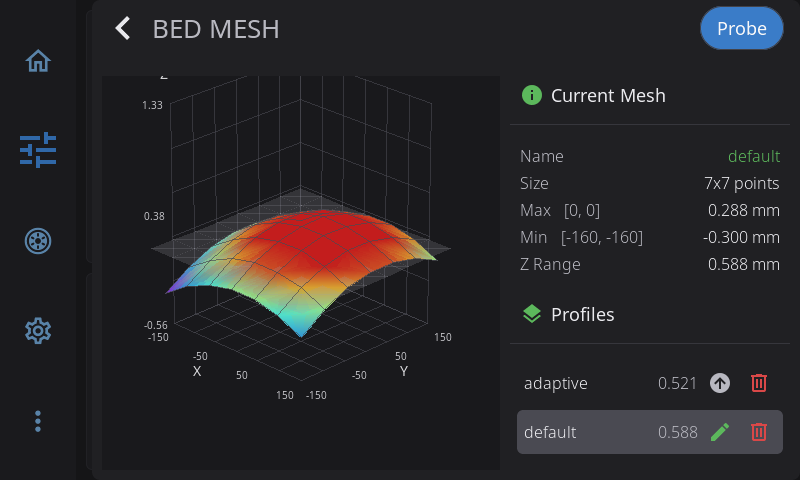
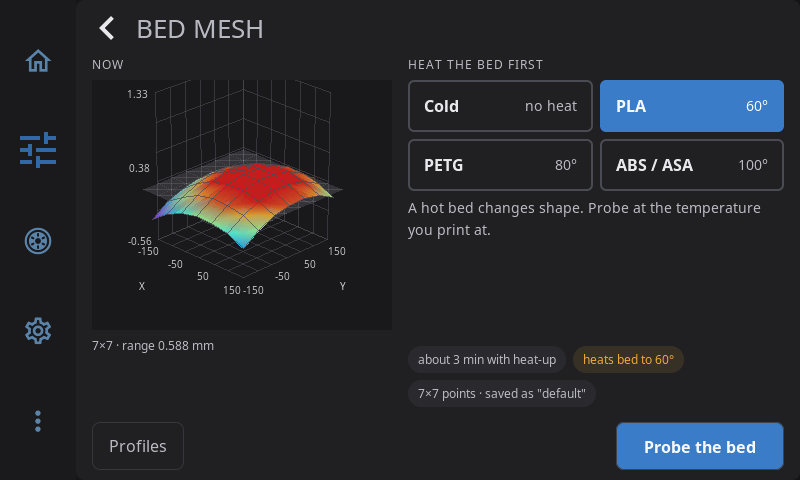
docs(calibration): screenshots and guide for the redesigned calibration screens
Adds manifest entries and shots for the Calibration screen, the guided run's
Pick, Before you start, Z offset step, Z offset not set, Running and Results
pages, Belt compare, PA tuning and the wizard's Calibrate your printer page;
recaptures the other calibration shots and repairs the input shaper recipe.
The guide covers the all-or-nothing save, the Z offset step starting at once,
Warm the bed first, Back asking, save labels and offline Done.

diff --git a/docs/user/guide/calibration.md b/docs/user/guide/calibration.md
@@ -12,13 +12,15 @@ Every calibration here that moves the toolhead (Bed Mesh, Screws Tilt, Z Offset,
 
 Open **Advanced > Calibration**. The screen has one tile for each calibration your printer can run, in the order they are best run in. A calibration your printer cannot run has no tile: no **Input shaper** without an accelerometer, no **Bed mesh** without a probe or bed mesh setup, no **Tool offsets** on a single-tool printer.
 
+![The Calibration screen: the Guided calibration banner with its Start button, then one tile per calibration with where it stands](../../images/user/calibration-hub.png)
+
 Tap a tile to open that calibration's own screen, described in the sections below.
 
 Each tile also says where that calibration stands:
 
 | The tile says | What it means |
 |---------------|---------------|
-| **Done** and a date, with a value | A guided calibration measured and saved this, on that date |
+| **Done** and a date, with a short value | A guided calibration measured and saved this, on that date. The value is a short summary, such as the Z offset or the bed mesh range. The Input shaper tile shows only the date, because its result has one value per axis |
 | **In config** with a value | Your printer's Klipper configuration already holds a tuned value, from before HelixScreen or from another tool. The Input shaper tile shows its two axes without the **In config** label |
 | **Never run · required** | Nothing found, and this printer's profile marks the calibration as required |
 | **Never run** | Nothing found, and the calibration is recommended for this printer |
@@ -49,35 +51,55 @@ The Z offset runs first because it is the one that may need you at the printer. 
 Start a guided calibration from either place:
 
 - The **Guided calibration** button at the top of the Calibration screen. It says how many of its calibrations have never run and how long the whole thing takes.
-- **Calibrate now** on the last page of the setup wizard. Setup finishes first, then the guided calibration opens.
+- **Calibrate now** on the setup wizard's last page, **Calibrate your printer**. Setup finishes first, then the guided calibration opens. **Skip for now** finishes setup without calibrating.
+
+![The setup wizard's Calibrate your printer page: the calibrations this printer needs, how long they take, and Calibrate now](../../images/user/wizard-calibration.png)
 
 ### Picking the Calibrations
 
 The first page lists the calibrations the guided run offers on your printer, each with its time and what it involves: whether it needs you, uses the paper test, heats or is loud.
 
+![Picking the calibrations: Z offset with Warm the bed first, Heaters, Bed mesh and Input shaper, all ticked, with the total time at the bottom](../../images/user/calibration-guided-pick.png)
+
 - Recommended calibrations start ticked. Optional ones start unticked.
 - A calibration your printer's profile marks as required stays ticked and cannot be unticked.
 - The total time, and how much of it needs you, update as you tick and untick.
+- The **Z offset** card has **Warm the bed first**. Tap it to heat the bed before the printer probes, so the offset is measured with the bed expanded the way it is when you print. Tap it again to turn it off.
 
-Tap **Next** when the list is right.
+Tap **Start** when the list is right, or **Skip for now** to close the guided calibration without running anything.
 
 ### Before You Start
 
-The next page lists what the picked calibrations need, such as a clear bed, the build plate in place, or a sheet of paper for the paper test. Each line says which calibrations need it. Tick each line once it is done. A line HelixScreen can check by itself, like the accelerometer, is already ticked.
+The next page lists what the picked calibrations need, such as a clear bed, the build plate in place, or a sheet of paper for the paper test. Each line says which calibrations need it. Tick each line once it is done. A line HelixScreen can check by itself, like the accelerometer, is already ticked. The right side says which part of the run needs you and when you can walk away.
+
+![Before you start: three lines still to tick and the accelerometer already detected, with what happens next on the right](../../images/user/calibration-guided-prereqs.png)
 
 The button that starts the run (**Everything's ready**) becomes available when every line is ticked. Going back to the first page and returning clears the ticks, so check them again.
 
 ### While It Runs
 
-The running page shows the current calibration, what it is doing, a progress bar, and roughly how long the whole run has left. It also says what to watch out for: do not touch the nozzle or the bed while the heaters calibrate, keep hands clear while the bed mesh probes, and expect noise during input shaping.
+The running page shows the current calibration, what it is doing, a progress bar, and roughly how long the whole run has left. The list on the left shows each calibration's result as it finishes. It also says what to watch out for: do not touch the nozzle or the bed while the heaters calibrate, keep hands clear while the bed mesh probes, and expect noise during input shaping.
+
+![A guided run in progress: the list of calibrations on the left with their results so far, and the current one's live view on the right](../../images/user/calibration-guided-running.png)
 
 You can leave this screen while the run continues. Open **Guided calibration** again to come back to where it is.
 
 A calibration that fails does not stop the run: the next one starts, and the results say what went wrong.
 
-**The Z offset step.** The run opens the Z offset screen, the same one as the **Z offset** tile, without asking whether the bed is clear (you already ticked that). Run the calibration as usual. **Accept** keeps the result for the end of the run instead of saving it, and the screen says so. Tap **Continue** to go back to the run.
+**The Z offset step.** The run opens the Z offset screen and the printer starts homing and probing straight away: there is no intro page, and no question about whether the bed is clear (you already ticked that). With **Warm the bed first** on, the bed heats first. When the nozzle is in place, do the paper test:
 
-If you leave the Z offset screen without accepting a result, HelixScreen asks **Z offset not set**:
+1. Slide the paper back and forth under the nozzle.
+2. Tap **Lower nozzle** until the paper just drags lightly. Big steps first, then 0.01 mm. Never force the nozzle into the bed.
+3. Tap **Paper drags: done**. The result is kept for the end of the run instead of being saved now, and the screen says so.
+4. Tap **Continue** to go back to the run.
+
+![The Z offset step in a guided run: step 1 of 4, the nozzle position, Raise and Lower nozzle, the step sizes, and Paper drags: done](../../images/user/calibration-guided-zoffset.png)
+
+**Skip this step** moves on to the next calibration without a Z offset.
+
+If you tap **Back**, including in the middle of the paper test, the paper test is cancelled and HelixScreen asks **Z offset not set**:
+
+![Z offset not set: Stop calibration or Continue](../../images/user/calibration-guided-z-not-set.png)
 
 - **Continue** skips the Z offset and goes on with the other calibrations.
 - **Stop calibration** ends the run. Closing the question any other way also stops the run, because the next calibrations heat and move the printer and should only start when you chose them.
@@ -90,7 +112,7 @@ On printers whose firmware keeps the Z offset itself (FlashForge with ZMOD, for 
 
 ### Stopping
 
-Tap **Stop** to end the run. HelixScreen asks first.
+Tap **Stop calibration** to end the run. HelixScreen asks first.
 
 How much stopping undoes depends on what the printer is doing at that moment:
 
@@ -99,18 +121,25 @@ How much stopping undoes depends on what the printer is doing at that moment:
 
 If the printer shuts down or restarts during a run for any other reason, the finished results are lost the same way, and each one is marked **Dropped when the printer restarted**.
 
-### Results: Save All or Discard All
+### Results: Save or Discard All
 
 When every calibration has ended, or after a stop, tap **See results**. Each calibration shows the value from before the run beside what the run measured, or why it failed, was skipped or was not run.
 
-- **Save all** writes every result to your printer's configuration with one save. A calibration that failed partway, for example after tuning the nozzle but not the bed, still saves the part it finished, and its line says what will be saved. The Calibration screen's tiles then show **Done** with today's date.
-- **Discard all** throws every result away and leaves your printer's configuration as it was. If a firmware-stored Z offset changed, it is set back first, and its line says what it was restored to.
+![Results: each calibration's value before the run and after it, with Discard all and Save and restart Klipper at the bottom](../../images/user/calibration-guided-results.png)
 
-If the save fails, the reason is shown and you can try **Save all** again or choose **Discard all**.
+A run saves all of its results or none of them, so there is nothing to tick or untick line by line. The line at the bottom says how many results will be saved and whether Klipper restarts.
+
+- **Save and restart Klipper** writes every result to your printer's configuration with one save. On Kalico the button reads **Save** when the save needs no restart (see below). A calibration that failed partway, for example after tuning the nozzle but not the bed, still saves the part it finished, and its line says what will be saved. The Calibration screen's tiles then show **Done** with today's date.
+- **Discard all** throws every result away and leaves your printer's configuration as it was. If a firmware-stored Z offset changed, it is set back first, and its line says what it was restored to. **Discard all** also appears when that Z offset is the only thing to undo, even though nothing else needs saving.
+- When there is nothing to save, the button reads **Done** and just closes the run.
+
+If the save fails, the reason is shown and you can try saving again or choose **Discard all**.
+
+**If the printer is unreachable** (disconnected, or Klipper not ready), **See results** and **Done** still work, so you can read the results and close the run. Saving waits until the printer is back.
 
 ### What Restarts Klipper
 
-**On Klipper**, saving the configuration always restarts Klipper, so **Save all** restarts it once at the end. This is normal and takes a few seconds to a minute. Your new values take effect when it is back.
+**On Klipper**, saving the configuration always restarts Klipper, so saving the results restarts it once at the end. This is normal and takes a few seconds to a minute. Your new values take effect when it is back.
 
 **On Kalico**, a save can skip the restart when everything it writes is already in effect. The guided run's heater PID values, bed mesh and input shaper settings all take effect the moment they are measured, so a run of just those saves without a restart. A run that includes a probe Z offset, or MPC heater values, still restarts Klipper, because those only take effect after a restart. The same rule applies to the Save button on the Z offset screen: its confirmation tells you whether Klipper will restart.
 
@@ -312,11 +341,7 @@ A tool that has never been calibrated shows `--` on each axis instead of a numbe
 
 ### Running a Calibration
 
-1. Navigate to **Advanced > Calibration > Tool offsets**.
-
-   ![Tool Offsets row in the Advanced panel](../../images/user/advanced-tool-offsets-row.png)
-
-   — or tap **Tool Offsets** on the Controls panel:
+1. Navigate to **Advanced > Calibration** and tap the **Tool offsets** tile (it appears only on a printer with more than one tool), or tap **Tool Offsets** on the Controls panel:
 
    ![Tool Offsets button on the Controls panel](../../images/user/controls-tool-offsets.png)
 
@@ -427,7 +452,7 @@ For CoreXY printers: compares the tension of the two belt paths by driving each 
 
 ### Requirements
 
-The **Belt compare** tile appears under **Advanced > Calibration** on a CoreXY printer whose Klipper config has an accelerometer. **Start Check** stays disabled until all of these hold:
+The **Belt compare** tile appears under **Advanced > Calibration** on a CoreXY printer whose Klipper config has an accelerometer. **Compare belts** stays disabled until all of these hold:
 
 - A **CoreXY** printer. The check compares the two diagonals only a CoreXY has, so it is unavailable on other kinematics
 - An **accelerometer** configured in Klipper, and exactly one. When more than one accelerometer reports during the sweep, the check stops with a message rather than guess which one to compare
@@ -438,8 +463,11 @@ The **Belt compare** tile appears under **Advanced > Calibration** on a CoreXY p
 ### Running a Check
 
 1. Navigate to **Advanced > Calibration > Belt compare**
-2. The panel shows what it found: your kinematics, your accelerometer, and the frequency range the sweep will cover. If a requirement is not met, the reason appears above the Start button
-3. Tap **Start Check**. The printer homes first if it needs to, runs three quick laps to settle the belts, then sweeps each belt path in turn: the toolhead moves back and forth along one diagonal while the accelerometer listens, then the other. Two full sweeps take about 5 minutes at Klipper's default settings - keep clear of the printer while it moves. Each path's curve draws live on the chart while it sweeps, as on the [Input Shaper live chart](#the-live-chart), and Klipper's analysis replaces it when the sweep ends
+2. The panel shows what it found: your kinematics, your accelerometer, and the frequency range the sweep will cover. If a requirement is not met, the reason appears above the **Compare belts** button
+
+   ![Belt Tension before a check: the two belt paths, what the check does, the kinematics and accelerometer, and Compare belts](../../images/user/calibration-belt-compare.png)
+
+3. Tap **Compare belts**. The printer homes first if it needs to, runs three quick laps to settle the belts, then sweeps each belt path in turn: the toolhead moves back and forth along one diagonal while the accelerometer listens, then the other. Two full sweeps take about 5 minutes at Klipper's default settings - keep clear of the printer while it moves. Each path's curve draws live on the chart while it sweeps, as on the [Input Shaper live chart](#the-live-chart), and Klipper's analysis replaces it when the sweep ends
 4. Both curves appear on one chart, each path in its own color
 
 The sweeps stay inside the frequency range set in your printer's `[resonance_tester]` section; nothing goes past its `max_freq`. On a printer with less than 512 MB of memory or a single-core processor, the panel shows the results without a chart.
@@ -563,6 +591,8 @@ Leaving the screen while it is still heating stops the run. Once measuring has s
 Works on any Klipper printer. HelixScreen prints a small test tower, raises pressure advance as the tower grows, and lets you take over while you watch the corners. You pick the height that looked best, and that value is applied.
 
 1. Open **Advanced > Calibration > Pressure advance tuning**.
+
+   ![Pressure Advance Tuning: material presets, Direct drive or Bowden, the Start K and End K range, and Print Test Tower](../../images/user/calibration-pa-tuning.png)
 2. On a printer with more than one extruder (a tool changer or IDEX), pick which one to tune; filament lanes feeding one nozzle count as one. Tap the material preset that matches what's loaded; it sets the nozzle and bed temperature.
 3. Choose **Direct drive** or **Bowden**. That sets a sensible range (0 to 0.1 for direct drive, 0 to 1.0 for Bowden); adjust **Start K** and **End K** with **-** and **+** if you want a different range.
 4. Clear the plate, tap **Print Test Tower** and confirm. HelixScreen uploads a hollow tower 40 mm wide and about 31 mm tall (roughly 11 minutes plus heating) and starts it. It begins with your printer's own start macro (PRINT_START or similar, with the bed and nozzle temperatures), so homing, leveling and purging happen the way they do for a sliced file, and ends with your end macro. A printer without a start macro just homes and heats.

diff --git a/docs/devel/CALIBRATION.md b/docs/devel/CALIBRATION.md
@@ -184,7 +184,10 @@ TileStatus tile_status(const calibration::StepInfo& step, const calibration::His
 ```
 
 The precedence is the history's last result, then the value the Klipper config holds, then the
-tier. `TileTone` values (`Idle`, `Due`, `Done`) are the ones `calibration_hub_tile.xml` maps to
+tier. A Done line carries the history's summary only where `tile_shows_reading()` says the step's
+result is one short reading (Z offset, heaters, bed mesh, pressure advance, the cutter position);
+a result per axis, belt, screw, tool or band, input shaping among them, reads "Done Nov 21" alone
+and leaves the detail to the step's own screen. `TileTone` values (`Idle`, `Due`, `Done`) are the ones `calibration_hub_tile.xml` maps to
 colors.
 
 **The Guided calibration banner** sits above the tiles. It shows when the run would have at least
@@ -317,8 +320,14 @@ run is on. Every page binds to subjects the overlay publishes; the subject names
    one while the step reports `percent = -1`), a safety line per step ("Do not touch the nozzle or
    the bed."), live temperatures during the heater step, and "Step 2 of 4 · about 15 min left".
 4. **Results.** Per step, the value before the run (its history summary, else its In-config
-   value, captured when the run started) beside what the run measured; then Save all and Discard
-   all.
+   value, captured when the run started) beside what the run measured. There is no per-step keep
+   column: a run saves everything `saves()` accepts or nothing. The primary button is
+   `results_primary_label()`: **Save and restart Klipper**, **Save** when the save is known not to
+   restart (Kalico), or **Done** when nothing is saved. Only a save needs the printer
+   (`primary_needs_printer="cal_run_offers_save eq 1"`), so **See results** on the Running page and
+   **Done** stay live while the printer is unreachable. **Discard all** shows while
+   `CalibrationRun::can_discard()` holds: something to save, or a finished step with
+   `restores_on_discard()` (a firmware-stored Z offset) even when nothing else is staged.
 
 **Setup's last page.** The setup wizard ends on a Calibration page (`WizardCalibrationStep`)
 that lists the steps a run would tick and how long they take. **Calibrate now** finishes setup

diff --git a/docs/devel/GALLERY.md b/docs/devel/GALLERY.md
@@ -380,6 +380,44 @@ Every app screenshot the docs show, grouped by area. Generated by `scripts/gen_g
 
 <img src="../images/user/about-version-row.png" alt="About version row" width="400"/>
 
+## Calibration
+
+### Calibration belt compare
+
+<img src="../images/user/calibration-belt-compare.png" alt="Calibration belt compare" width="400"/>
+
+### Calibration guided pick
+
+<img src="../images/user/calibration-guided-pick.png" alt="Calibration guided pick" width="400"/>
+
+### Calibration guided prereqs
+
+<img src="../images/user/calibration-guided-prereqs.png" alt="Calibration guided prereqs" width="400"/>
+
+### Calibration guided results
+
+<img src="../images/user/calibration-guided-results.png" alt="Calibration guided results" width="400"/>
+
+### Calibration guided running
+
+<img src="../images/user/calibration-guided-running.png" alt="Calibration guided running" width="400"/>
+
+### Calibration guided z not set
+
+<img src="../images/user/calibration-guided-z-not-set.png" alt="Calibration guided z not set" width="400"/>
+
+### Calibration guided zoffset
+
+<img src="../images/user/calibration-guided-zoffset.png" alt="Calibration guided zoffset" width="400"/>
+
+### Calibration hub
+
+<img src="../images/user/calibration-hub.png" alt="Calibration hub" width="400"/>
+
+### Calibration pa tuning
+
+<img src="../images/user/calibration-pa-tuning.png" alt="Calibration pa tuning" width="400"/>
+
 ## Chamber
 
 ### Chamber card stock
@@ -519,6 +557,10 @@ Every app screenshot the docs show, grouped by area. Generated by `scripts/gen_g
 <img src="../images/user/trouble-log-level.png" alt="Trouble log level" width="400"/>
 
 ## Wizard
+
+### Wizard calibration
+
+<img src="../images/user/wizard-calibration.png" alt="Wizard calibration" width="400"/>
 
 ### Wizard connection
 

diff --git a/docs/user/CLAUDE.md b/docs/user/CLAUDE.md
@@ -51,7 +51,7 @@ These docs are **end-user facing**. They must be written for people who are NOT 
 | `guide/bluetooth-setup.md` | Enabling Bluetooth on Raspberry Pi and BTT Pi, UART conflicts, USB dongle setup |
 | `guide/barcode-scanner.md` | USB + Bluetooth barcode scanner setup, keymaps, BT-HID bonded-only workaround |
 | `guide/label-printing.md` | Label printer setup, supported printers (Brother/Phomemo/Niimbot/MakeID), Bluetooth pairing, labels printed for new Spoolman spools, troubleshooting |
-| `guide/calibration.md` | The Calibration screen and its tiles, guided calibration (picking steps, before you start, running, stopping, Save all / Discard all, what restarts on Klipper vs Kalico), bed mesh, screws tilt, input shaper, probe/Z/tool offsets, vertical artifact compensation and check, belt tension, pressure advance, PID/MPC |
+| `guide/calibration.md` | The Calibration screen and its tiles, guided calibration (picking steps, before you start, running, the Z offset step, stopping, saving or discarding results, what restarts on Klipper vs Kalico), bed mesh, screws tilt, input shaper, probe/Z/tool offsets, vertical artifact compensation and check, belt tension, pressure advance, PID/MPC |
 | `guide/touch-calibration.md` | Touch screen calibration, forcing recalibration, config reference |
 | `guide/settings.md` | Settings hub: the three groups (Screen, Printer, HelixScreen) and their pages |
 | `guide/settings/display.md` | Screen rotation, UI scale, brightness, screen dim, display sleep, screensaver, sleep while printing |
